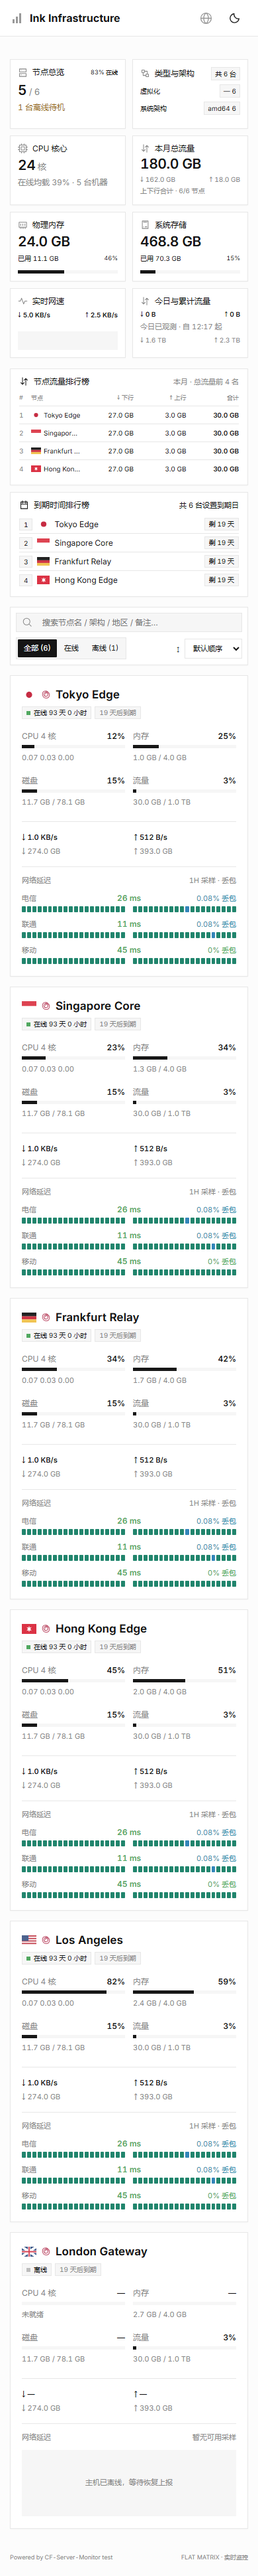
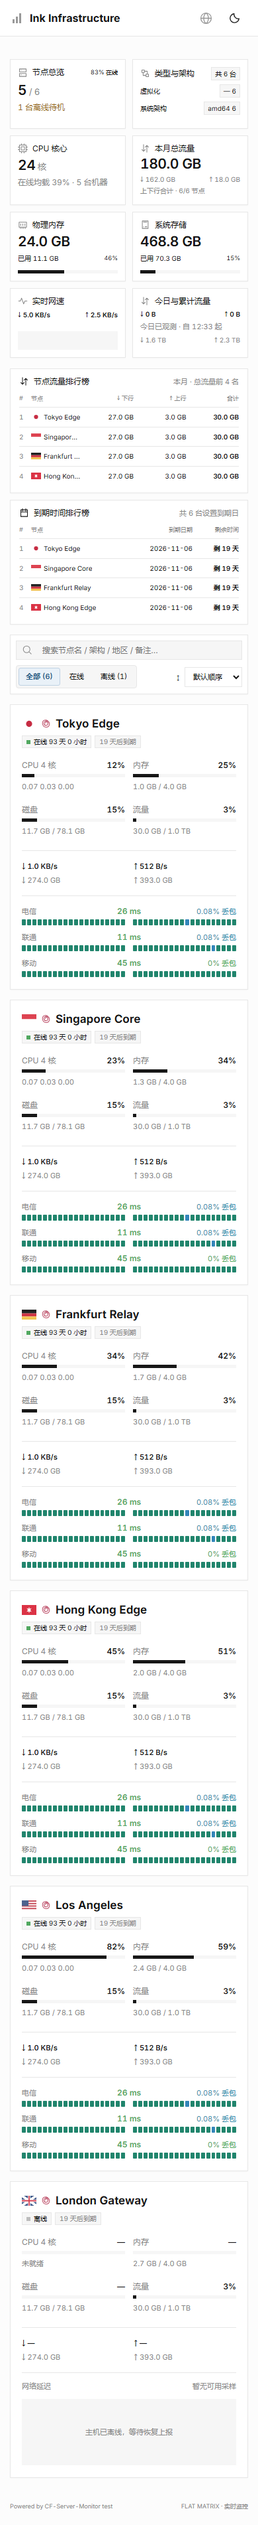
Align ranking panels and simplify probe and filter styling

diff --git a/cfsm/src/matrix/MatrixDashboard.vue b/cfsm/src/matrix/MatrixDashboard.vue
@@ -3,7 +3,7 @@ import { computed, ref, watch } from 'vue'
 import { nodes, country, now, region } from '../composables/useView.js'
 import { state } from '../composables/useMonitor.js'
 import { themeOptions } from '../composables/useTheme.js'
-import { running, memory, size, percentage, ratio, virtualization, monthlyTransfers } from './data.js'
+import { running, memory, size, percentage, ratio, virtualization, monthlyTransfers, dateText } from './data.js'
 import { dailyTraffic } from '../utils/dailyTraffic.js'
 import { daysLeft } from '../utils/display.js'
 import { collapsed } from './useMatrixUI.js'
@@ -40,6 +40,6 @@ const todayCaption = computed(()=>today.value.partial ? (Number.isFinite(today.v
  <article class="box overview overview-speed"><label><Icon name="pulse"/>实时网速</label><div class="spread"><b>↓ {{ size(transfer) }}/s</b><b>↑ {{ size(upload) }}/s</b></div><div class="speed-sparks"><Sparkline :values="speeds" fill/><Sparkline :values="uploads" color="#888"/></div></article>
  <article class="box overview overview-traffic"><label :title="todayCaption"><Icon name="traffic"/>今日与累计流量</label><div class="spread"><b>↓ {{ today.rx }}</b><b>↑ {{ today.tx }}</b></div><p class="muted" :title="todayCaption">{{ todayCaption }}</p><div class="spread muted"><span>↓ {{ size(sum('net_rx')) }}</span><span>↑ {{ size(sum('net_tx')) }}</span></div></article>
 </section>
-<section class="finance-grid"><article class="box traffic-ranking"><div class="section-heading spread"><label><Icon name="traffic"/>节点流量排行榜</label><small class="muted">本月 · 总流量前 4 名</small></div><div class="traffic-table-head"><span>#</span><span>节点</span><span>↓ 下行</span><span>↑ 上行</span><span>合计</span></div><RouterLink v-for="(item,index) in transfers.ranked.slice(0,4)" :key="`${item.siteIndex}:${item.server.id}`" class="traffic-rank-row" :to="{path:`/server/${item.server.id}`,query:{site:item.siteIndex}}"><span class="muted">{{ index+1 }}</span><span class="rank-node" :title="item.server.name"><img v-if="region(item.server.region)" class="flag" :src="`${item.site.base}/flags/${region(item.server.region).toLowerCase()}.svg`" alt=""><span>{{ item.server.name }}</span></span><span>{{ size(item.rx) }}</span><span>{{ size(item.tx) }}</span><b>{{ size(item.total) }}</b></RouterLink><p v-if="!transfers.count" class="muted rank-empty">暂无本月流量数据</p><small v-else-if="transfers.count<nodes.length" class="muted rank-note">{{ nodes.length-transfers.count }} 个节点未提供完整本月计数</small></article><article class="box expiry"><div class="section-heading spread"><label><Icon name="calendar"/>到期时间排行榜</label><small>共 {{ expirations.length }} 台设置到期日</small></div><RouterLink v-for="(item,index) in expirations.slice(0,4)" :key="item.server.id" :to="{path:`/server/${item.server.id}`,query:{site:item.siteIndex}}"><span><b class="chip">{{ index+1 }}</b><img v-if="region(item.server.region)" class="flag" :src="`${item.site.base}/flags/${region(item.server.region).toLowerCase()}.svg`" alt="">{{ item.server.name }}</span><small class="chip">剩 {{ daysLeft(item.server.expire_date,now) }} 天</small></RouterLink><p v-if="!expirations.length" class="muted">暂无设置到期日的节点</p></article></section>
+<section class="finance-grid"><article class="box traffic-ranking"><div class="section-heading spread"><label><Icon name="traffic"/>节点流量排行榜</label><small class="muted">本月 · 总流量前 4 名</small></div><div class="traffic-table-head"><span>#</span><span>节点</span><span>↓ 下行</span><span>↑ 上行</span><span>合计</span></div><RouterLink v-for="(item,index) in transfers.ranked.slice(0,4)" :key="`${item.siteIndex}:${item.server.id}`" class="traffic-rank-row" :to="{path:`/server/${item.server.id}`,query:{site:item.siteIndex}}"><span class="muted">{{ index+1 }}</span><span class="rank-node" :title="item.server.name"><img v-if="region(item.server.region)" class="flag" :src="`${item.site.base}/flags/${region(item.server.region).toLowerCase()}.svg`" alt=""><span>{{ item.server.name }}</span></span><span>{{ size(item.rx) }}</span><span>{{ size(item.tx) }}</span><b>{{ size(item.total) }}</b></RouterLink><p v-if="!transfers.count" class="muted rank-empty">暂无本月流量数据</p></article><article class="box expiry"><div class="section-heading spread"><label><Icon name="calendar"/>到期时间排行榜</label><small class="muted">共 {{ expirations.length }} 台设置到期日</small></div><div class="expiry-table-head"><span>#</span><span>节点</span><span>到期日期</span><span>剩余时间</span></div><RouterLink v-for="(item,index) in expirations.slice(0,4)" :key="`${item.siteIndex}:${item.server.id}`" class="expiry-rank-row" :to="{path:`/server/${item.server.id}`,query:{site:item.siteIndex}}"><span class="muted">{{ index+1 }}</span><span class="rank-node" :title="item.server.name"><img v-if="region(item.server.region)" class="flag" :src="`${item.site.base}/flags/${region(item.server.region).toLowerCase()}.svg`" alt=""><span>{{ item.server.name }}</span></span><span class="expiry-date">{{ dateText(item.server.expire_date) }}</span><b>{{ daysLeft(item.server.expire_date,now)>=0?`剩 ${daysLeft(item.server.expire_date,now)} 天`:`逾期 ${-daysLeft(item.server.expire_date,now)} 天` }}</b></RouterLink><p v-if="!expirations.length" class="muted rank-empty">暂无设置到期日的节点</p></article></section>
 <div class="fleet-toolbar box"><label class="search"><Icon name="search"/><input v-model="search" placeholder="搜索节点名 / 架构 / 地区 / 备注…" aria-label="搜索节点"></label><div class="segmented"><button v-for="option in [{key:'all',label:`全部 (${nodes.length})`},{key:'online',label:'在线'},{key:'offline',label:`离线 (${nodes.length-onlineNodes.length})`}]" :key="option.key" :aria-pressed="status===option.key" @click="status=option.key">{{ option.label }}</button></div><button v-if="country" @click="country=''">{{ country }} × 清除地区</button><label class="sort">↕ <select v-model="order" aria-label="排序"><option value="default">默认顺序</option><option value="cpu">CPU 负载</option><option value="memory">内存占用</option><option value="expiry">到期时间</option><option value="name">节点名称</option></select></label></div>
 <section class="matrix-cards"><MatrixCard v-for="item in filtered" :key="`${item.siteIndex}:${item.server.id}`" v-bind="item"/></section><p v-if="!filtered.length" class="box empty">{{ state.loading ? '正在连接探针…' : '暂无匹配节点' }}</p></div></template>

diff --git a/cfsm/src/matrix/MatrixCard.vue b/cfsm/src/matrix/MatrixCard.vue
@@ -30,6 +30,6 @@ function open() { router.push({ path: `/server/${props.server.id}`, query: { sit
   <div class="node-title"><strong><img v-if="region(server.region)" class="flag" :src="`${site.base}/flags/${region(server.region).toLowerCase()}.svg`" :alt="region(server.region)"><img v-if="osIcon(server.os)" class="os-icon" :src="`${site.base}/os-icons/${osIcon(server.os)}`" :alt="server.os"><span :title="server.name">{{ server.name || server.id }}</span></strong><span class="node-badges"><span class="chip state-chip"><i :class="{up: live}"/>{{ live ? `在线 ${uptime(server, now)}` : reported ? '离线' : '未接入' }}</span><span class="chip expiry-chip" v-if="days !== null">{{ days >= 0 ? `${days} 天后到期` : `已到期 ${-days} 天` }}</span></span></div>
   <div class="card-metrics"><div v-for="meter in measurements" :key="meter.name" class="card-metric"><div><span>{{ meter.name }}</span><b>{{ meter.infinite ? '∞' : percentage(meter.value) }}</b></div><div class="track"><i :style="{width: `${Math.max(0,Math.min(100,Number(meter.value) || 0))}%`}"/></div><small>{{ meter.detail }}</small></div></div>
   <div class="card-network"><span>↓ <b>{{ live ? `${size(server.net_in_speed)}/s` : '—' }}</b></span><span>↑ <b>{{ live ? `${size(server.net_out_speed)}/s` : '—' }}</b></span><span>↓ {{ reported ? size(server.net_rx) : '—' }}</span><span>↑ {{ reported ? size(server.net_tx) : '—' }}</span></div>
-  <section v-if="live && keys.length && themeOptions.show_latency !== false" class="card-probes"><div class="muted spread"><span>网络延迟</span><span>{{ windows ? '1H 采样' : '实时' }} · 丢包</span></div><div v-for="key in keys" :key="key" class="carrier-row" :data-probe="key"><div class="carrier-meta"><span>{{ probeLabel(site.config,key) }}</span><strong :class="probeTone(cardProbeValue(trendServer,'ping',key,windows))">{{ cardProbeValue(trendServer,'ping',key,windows) === null ? '超时' : probeValueText(cardProbeValue(trendServer,'ping',key,windows)) }}</strong><span class="loss-caption" :class="probeTone(cardProbeValue(trendServer,'loss',key,windows),true)" :title="windows ? '有效窗口采样的平均丢包率' : '最新丢包率'">{{ probeValueText(cardProbeValue(trendServer,'loss',key,windows),true) }} 丢包</span></div><div class="probe-blocks"><ProbeBlocks :values="blockValues('ping',key)" :label="`${probeLabel(site.config,key)}延迟采样`"/><ProbeBlocks :values="blockValues('loss',key)" :label="`${probeLabel(site.config,key)}丢包采样`" loss/></div></div></section>
+  <section v-if="live && keys.length && themeOptions.show_latency !== false" class="card-probes"><div v-for="key in keys" :key="key" class="carrier-row" :data-probe="key"><div class="carrier-meta"><span>{{ probeLabel(site.config,key) }}</span><strong :class="probeTone(cardProbeValue(trendServer,'ping',key,windows))">{{ cardProbeValue(trendServer,'ping',key,windows) === null ? '超时' : probeValueText(cardProbeValue(trendServer,'ping',key,windows)) }}</strong><span class="loss-caption" :class="probeTone(cardProbeValue(trendServer,'loss',key,windows),true)" :title="windows ? '有效窗口采样的平均丢包率' : '最新丢包率'">{{ probeValueText(cardProbeValue(trendServer,'loss',key,windows),true) }} 丢包</span></div><div class="probe-blocks"><ProbeBlocks :values="blockValues('ping',key)" :label="`${probeLabel(site.config,key)}延迟采样`"/><ProbeBlocks :values="blockValues('loss',key)" :label="`${probeLabel(site.config,key)}丢包采样`" loss/></div></div></section>
   <section v-else class="card-unavailable"><div class="muted spread"><span>{{ reported ? '网络延迟' : '接入状态' }}</span><span>{{ reported ? '暂无可用采样' : '配置指引' }}</span></div><p>{{ reported ? live ? '尚无网络延迟数据' : '主机已离线，等待恢复上报' : '主机尚未接入 · 请在后台获取命令并在主机执行' }}</p></section>
 </article></template>

diff --git a/cfsm/tests/browser/monitor.spec.js b/cfsm/tests/browser/monitor.spec.js
@@ -124,13 +124,17 @@ test('matrix screenshots desktop, latency and mobile without overflow',async({pa
  await expect(page.locator('.map-toggle')).toHaveCount(0)
  await expect(page.locator('.cf-card').first().locator('.node-title>strong .os-icon')).toHaveCount(1)
  await expect(page.locator('.cf-card').first().locator('.node-badges .expiry-chip')).toHaveCount(1)
- await expect(page.locator('.cf-card').first()).toContainText('1H 采样')
+ await expect(page.locator('.cf-card').first().locator('.card-probes>.muted.spread')).toHaveCount(0)
  await expect(page.locator('.cf-card .node-sub')).toHaveCount(0)
  const cards=await page.locator('.cf-card').evaluateAll(elements=>elements.map(el=>({top:el.getBoundingClientRect().top,width:el.getBoundingClientRect().width})))
  expect(new Set(cards.slice(0,4).map(card=>card.top)).size).toBe(1)
  expect(cards[4].top).toBeGreaterThan(cards[0].top)
  expect(cards[0].width).toBeLessThan(440)
- await page.screenshot({path:'artifacts/matrix-home-dark.png',fullPage:true});await page.getByRole('button',{name:'切换深浅色'}).click();await page.screenshot({path:'artifacts/matrix-home.png',fullPage:true})
+ const tableTops=await page.locator('.traffic-rank-row,.expiry-rank-row').evaluateAll(elements=>elements.map(el=>({top:el.getBoundingClientRect().top,height:el.getBoundingClientRect().height})))
+ expect(tableTops).toHaveLength(8);for(let index=0;index<4;index++){expect(Math.abs(tableTops[index].top-tableTops[index+4].top)).toBeLessThan(1);expect(Math.abs(tableTops[index].height-tableTops[index+4].height)).toBeLessThan(1)}
+ const contrast=()=>page.locator('.fleet-toolbar button[aria-pressed=true]').evaluate(button=>{const c=getComputedStyle(button),lum=color=>{const rgb=color.match(/[\d.]+/g).slice(0,3).map(n=>Number(n)/255).map(n=>n<=.04045?n/12.92:((n+.055)/1.055)**2.4);return rgb[0]*.2126+rgb[1]*.7152+rgb[2]*.0722};const fg=lum(c.color),bg=lum(c.backgroundColor);return (Math.max(fg,bg)+.05)/(Math.min(fg,bg)+.05)})
+ expect(await contrast()).toBeGreaterThan(4.5)
+ await page.screenshot({path:'artifacts/matrix-home-dark.png',fullPage:true});await page.getByRole('button',{name:'切换深浅色'}).click();expect(await contrast()).toBeGreaterThan(4.5);await page.screenshot({path:'artifacts/matrix-home.png',fullPage:true})
  await page.locator('.cf-card').first().click();await expect(page.locator('.resource-curves .chart-card')).toHaveCount(4);
  const facts=await page.locator('.detail-facts-grid>article').evaluateAll(elements=>elements.map(el=>el.getBoundingClientRect().top));expect(facts).toHaveLength(4);expect(new Set(facts).size).toBe(1);
  await page.screenshot({path:'artifacts/matrix-detail.png',fullPage:true})

diff --git a/cfsm/src/matrix/matrix.css b/cfsm/src/matrix/matrix.css
@@ -51,3 +51,8 @@
 
 @media(max-width:900px){.finance-grid{grid-template-columns:1fr}}
 @media(max-width:600px){.traffic-table-head,.traffic-rank-row{grid-template-columns:14px minmax(45px,1fr) repeat(3,minmax(48px,1fr))}}
+
+/* Match the two ranking tables and keep status selection legible in both themes. */
+.traffic-ranking,.expiry{padding:11px 13px;min-height:0}.traffic-table-head,.expiry-table-head{line-height:1.45}.expiry-table-head,.expiry>a.expiry-rank-row{display:grid;grid-template-columns:19px minmax(60px,1fr) 100px 82px;align-items:center;gap:7px;font-size:11px}.expiry-table-head{padding:3px 0 7px;color:var(--muted);font-size:10px}.traffic-rank-row,.expiry>a.expiry-rank-row{padding:7px 0;line-height:1.45;border:0;border-top:1px solid var(--border);font-size:11px}.expiry>a.expiry-rank-row>span{display:block;min-width:0}.expiry>a.expiry-rank-row>.rank-node{display:flex;gap:6px}.expiry-table-head>span:nth-child(n+3),.expiry-date,.expiry-rank-row>b{text-align:right;white-space:nowrap}.expiry .rank-node .flag{width:18px;height:12px}.expiry .rank-node>span{display:block;overflow:hidden;text-overflow:ellipsis;white-space:nowrap}.expiry-rank-row>b{font-weight:600}.card-probes>.carrier-row:first-child{margin-top:0}.card-probes{padding-top:13px}
+.fleet-toolbar .segmented{border-radius:4px;padding:3px;gap:3px}.fleet-toolbar .segmented button{border-radius:3px;padding:5px 10px;transition:background-color .15s,color .15s}.fleet-toolbar .segmented button[aria-pressed=true]{background:#e9f1f8;color:#285c88;border-color:#bfd2e4;font-weight:600}.dark .fleet-toolbar .segmented button[aria-pressed=true]{background:#2a3b4e;color:#dfedfa;border-color:#526d89}.fleet-toolbar .segmented button[aria-pressed=false]:hover{background:var(--panel)}
+@media(max-width:600px){.expiry-table-head,.expiry>a.expiry-rank-row{grid-template-columns:14px minmax(45px,1fr) 82px 66px;gap:4px;font-size:10px}.expiry-table-head{font-size:9px}.traffic-rank-row{font-size:10px}.expiry .rank-node .flag{width:15px;height:10px}.expiry>a.expiry-rank-row>.rank-node{gap:4px}}
